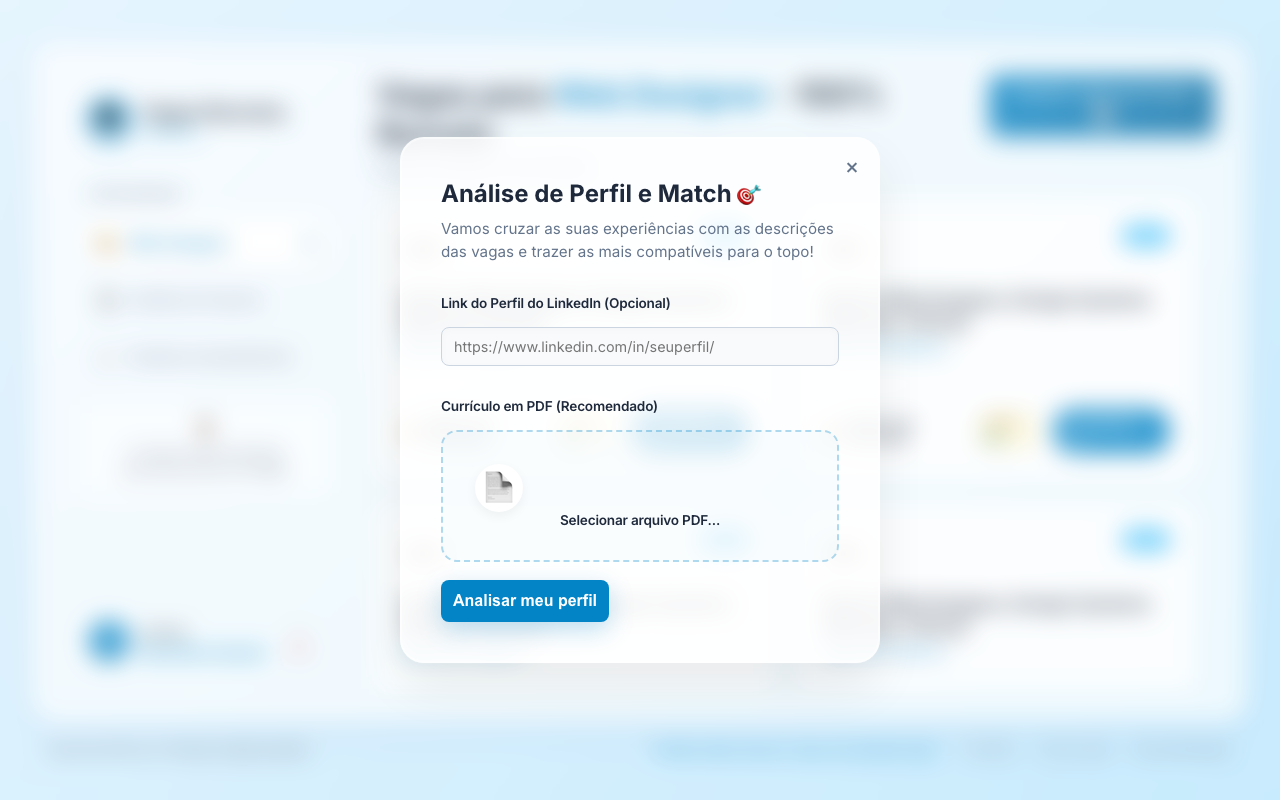
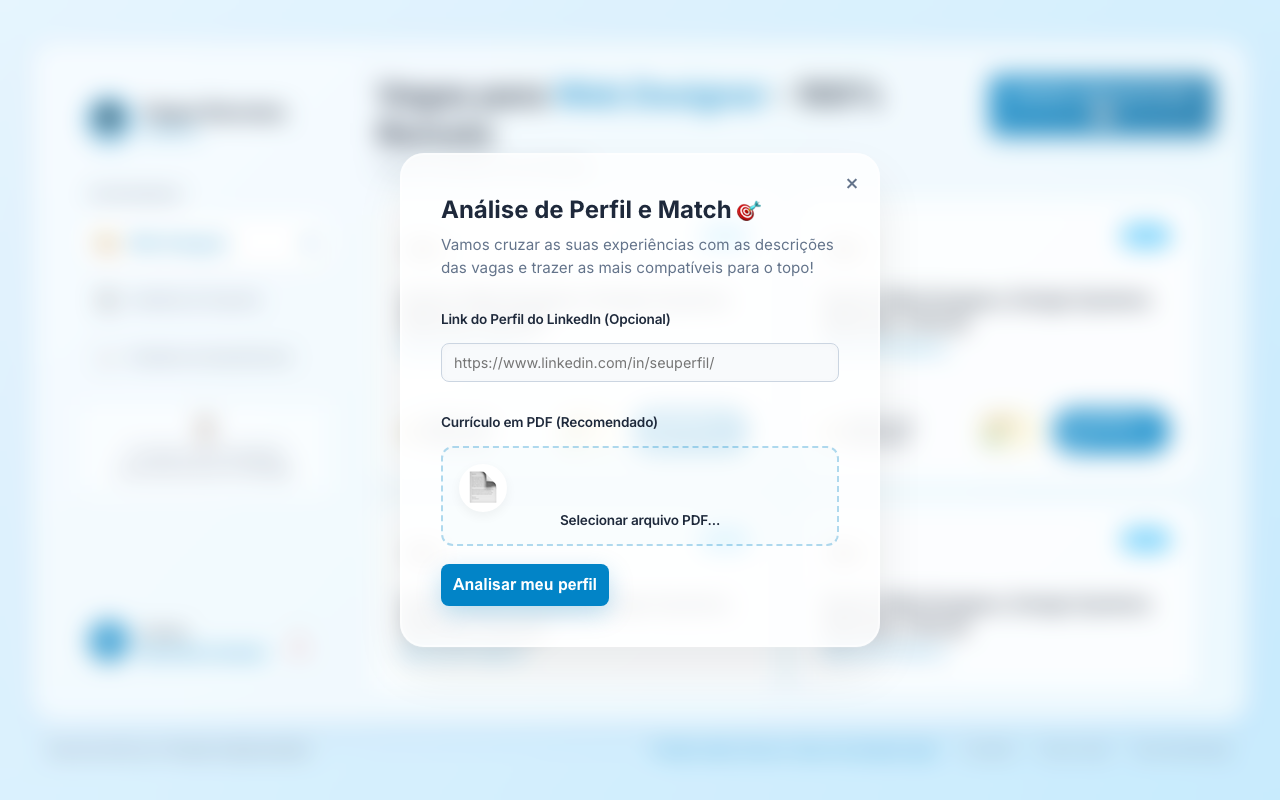
Update profile modal upload box to be smaller and horizontally centered

diff --git a/vagas-app/src/components/ProfileModal.css b/vagas-app/src/components/ProfileModal.css
@@ -97,13 +97,13 @@
 
 .file-label {
   display: flex;
-  flex-direction: column;
+  flex-direction: row;
   align-items: center;
   justify-content: center;
   gap: 12px;
-  padding: 32px;
+  padding: 16px;
   border: 2px dashed rgba(2, 132, 199, 0.3);
-  border-radius: 16px;
+  border-radius: 12px;
   background: rgba(2, 132, 199, 0.02);
   color: var(--primary-color);
   cursor: pointer;
